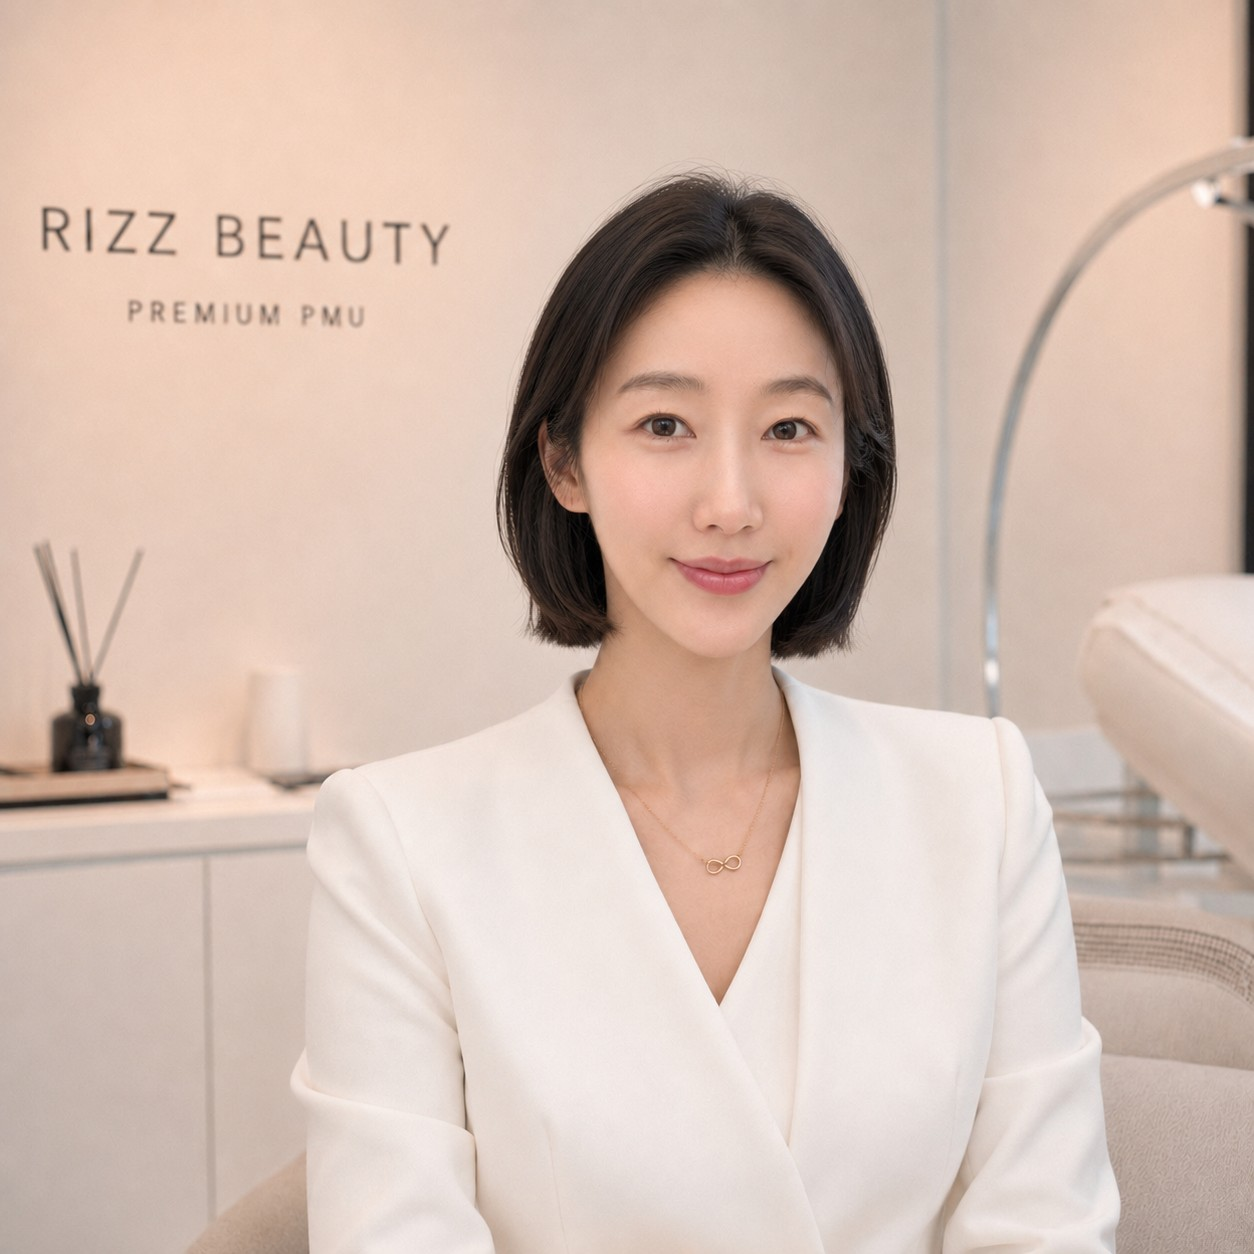
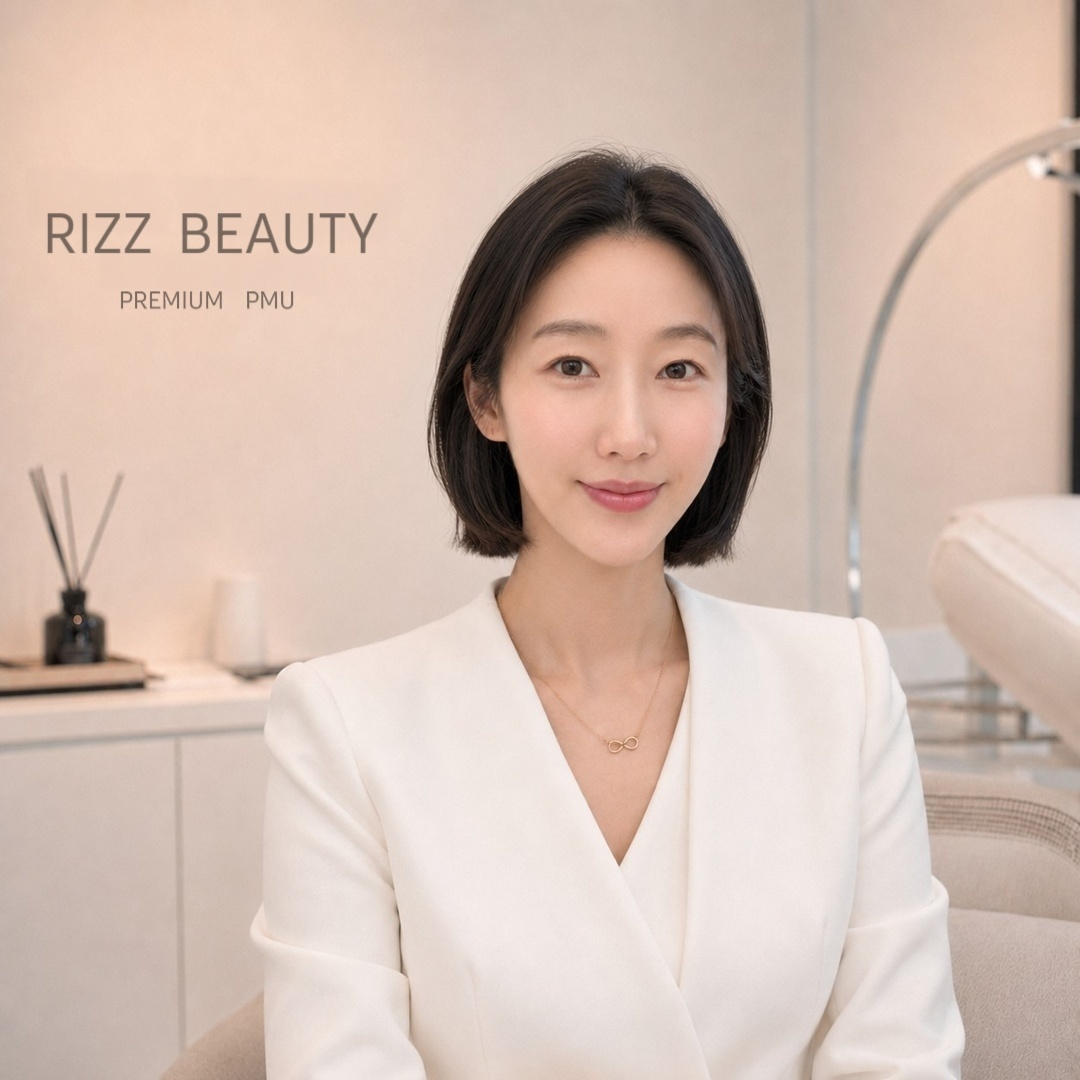
Finalize RIZZ BEAUTY landing page

Changed region(s): [[0.0306, 0.1528, 0.3667, 0.3056]]

diff --git a/src/components/Header.tsx b/src/components/Header.tsx
@@ -16,6 +16,30 @@ const navLinks = [
   { href: "#contact", label: "문의" },
 ];
 
+function NavItems({ className }: { className: string }) {
+  return (
+    <>
+      {navLinks.map((link) =>
+        "external" in link && link.external ? (
+          <a
+            key={link.href}
+            href={link.href}
+            target="_blank"
+            rel="noopener noreferrer"
+            className={className}
+          >
+            {link.label}
+          </a>
+        ) : (
+          <a key={link.href} href={link.href} className={className}>
+            {link.label}
+          </a>
+        ),
+      )}
+    </>
+  );
+}
+
 export default function Header() {
   const [scrolled, setScrolled] = useState(false);
 
@@ -28,50 +52,39 @@ export default function Header() {
 
   return (
     <header
-      className={`fixed inset-x-0 top-0 z-50 transition-[background-color,border-color,backdrop-filter] duration-500 ease-[cubic-bezier(0.16,1,0.3,1)] ${
+      className={`fixed inset-x-0 top-0 z-[60] transition-[background-color,border-color,backdrop-filter] duration-500 ease-[cubic-bezier(0.16,1,0.3,1)] ${
         scrolled
           ? "border-b border-black/[0.06] bg-white/95 backdrop-blur-md"
-          : "border-b border-transparent bg-transparent"
+          : "border-b border-transparent bg-white md:bg-transparent"
       }`}
     >
-      <div className="mx-auto flex max-w-7xl items-center justify-between px-5 py-4 sm:px-6 md:px-10 md:py-5">
-        <a
-          href="#"
-          className="text-[12px] font-semibold tracking-[0.22em] text-[#111111]"
-        >
-          RIZZ BEAUTY
-        </a>
+      <div className="mx-auto max-w-7xl">
+        <div className="flex items-center justify-between px-5 py-4 sm:px-6 md:px-10 md:py-5">
+          <a
+            href="#"
+            className="text-[12px] font-semibold tracking-[0.22em] text-[#111111]"
+          >
+            RIZZ BEAUTY
+          </a>
 
-        <nav className="hidden items-center gap-10 md:flex">
-          {navLinks.map((link) =>
-            "external" in link && link.external ? (
-              <a
-                key={link.href}
-                href={link.href}
-                target="_blank"
-                rel="noopener noreferrer"
-                className="text-[13px] font-medium tracking-[-0.01em] text-[#111111] transition-colors duration-300 hover:text-[#7C6F64]"
-              >
-                {link.label}
-              </a>
-            ) : (
-              <a
-                key={link.href}
-                href={link.href}
-                className="text-[13px] font-medium tracking-[-0.01em] text-[#111111] transition-colors duration-300 hover:text-[#7C6F64]"
-              >
-                {link.label}
-              </a>
-            ),
-          )}
+          <nav className="hidden items-center gap-10 md:flex">
+            <NavItems className="text-[13px] font-medium tracking-[-0.01em] text-[#111111] transition-colors duration-300 hover:text-[#7C6F64]" />
+          </nav>
+
+          <a
+            href="#contact"
+            className="inline-flex h-[40px] items-center justify-center rounded-full bg-black px-6 text-[13px] font-medium tracking-[-0.01em] text-white transition-[filter] duration-300 hover:brightness-110 md:h-[42px] md:px-7"
+          >
+            예약하기
+          </a>
+        </div>
+
+        <nav
+          aria-label="모바일 메뉴"
+          className="flex w-full items-center justify-between gap-1 px-5 pb-3 sm:px-6 md:hidden"
+        >
+          <NavItems className="shrink-0 whitespace-nowrap text-[11px] font-medium tracking-[-0.01em] text-[#111111] transition-colors duration-300 hover:text-[#7C6F64] sm:text-[12px]" />
         </nav>
-
-        <a
-          href="#contact"
-          className="inline-flex h-[40px] items-center justify-center rounded-full bg-black px-6 text-[13px] font-medium tracking-[-0.01em] text-white transition-[filter] duration-300 hover:brightness-110 md:h-[42px] md:px-7"
-        >
-          예약하기
-        </a>
       </div>
     </header>
   );

diff --git a/src/components/Services.tsx b/src/components/Services.tsx
@@ -13,21 +13,24 @@ const services = [
     title: "여자 눈썹",
     price: "350,000원",
     image: "/women-brow.jpg",
-    objectFit: "contain" as const,
+    width: 1536,
+    height: 1536,
   },
   {
     id: "men-eyebrow",
     title: "남자 눈썹",
     price: "400,000원",
     image: "/men-brow.jpg",
-    objectFit: "contain" as const,
+    width: 1490,
+    height: 1536,
   },
   {
     id: "lip",
     title: "입술",
     price: "350,000원",
     image: "/lip-before-after.jpg",
-    objectFit: "contain" as const,
+    width: 1536,
+    height: 1536,
   },
   {
     id: "hairline",
@@ -65,7 +68,7 @@ export default function Services() {
                 className="card-premium overflow-hidden"
               >
                 {"comingSoon" in service && service.comingSoon ? (
-                  <div className="relative flex aspect-[4/3] w-full flex-col items-center justify-center border-b border-black/[0.06] bg-[#f7f5f2] px-6 text-center">
+                  <div className="relative flex aspect-[4/3] w-full flex-col items-center justify-center overflow-hidden border-b border-black/[0.06] bg-[#f7f5f2] px-6 text-center">
                     <p className="text-[13px] font-medium tracking-[0.22em] text-[#111111] md:text-[14px]">
                       COMING SOON
                     </p>
@@ -74,28 +77,15 @@ export default function Services() {
                     </p>
                   </div>
                 ) : (
-                  <div
-                    className={`image-premium relative aspect-[4/3] w-full rounded-none shadow-none ${
-                      "objectFit" in service && service.objectFit === "contain"
-                        ? "bg-beige-light"
-                        : ""
-                    }`}
-                  >
+                  <div className="w-full">
                     <Image
                       src={"image" in service ? service.image : ""}
                       alt={`${service.title} 전후 사진`}
-                      fill
+                      width={"width" in service ? service.width : 1}
+                      height={"height" in service ? service.height : 1}
                       sizes="(max-width: 768px) 100vw, 50vw"
-                      className={
-                        "objectFit" in service &&
-                        service.objectFit === "contain"
-                          ? "object-contain"
-                          : "object-cover"
-                      }
-                      {...("objectFit" in service &&
-                      service.objectFit === "contain"
-                        ? { quality: 95 }
-                        : {})}
+                      quality={95}
+                      className="h-auto w-full object-contain"
                     />
                   </div>
                 )}

diff --git a/src/components/Hero.tsx b/src/components/Hero.tsx
@@ -4,7 +4,7 @@ const HERO_IMAGE = "/hero.jpg";
 
 export default function Hero() {
   return (
-    <section className="flex min-h-[100dvh] items-center bg-white px-5 pb-14 pt-24 sm:px-6 md:px-10 md:pb-20 md:pt-28">
+    <section className="flex min-h-[100dvh] items-center bg-white px-5 pb-14 pt-32 sm:px-6 md:px-10 md:pb-20 md:pt-28">
       <div className="mx-auto grid w-full max-w-7xl items-center gap-7 md:gap-10 lg:grid-cols-[11fr_9fr] lg:gap-12">
         <div>
           <p className="mb-5 text-[11px] font-medium tracking-[0.24em] text-muted md:mb-6">

diff --git a/src/components/WhyRizzBeauty.tsx b/src/components/WhyRizzBeauty.tsx
@@ -3,7 +3,7 @@ import ScrollReveal from "./ScrollReveal";
 const reasons = [
   {
     title: "1:1 맞춤 상담",
-    description: "얼굴형, 피부톤, 라이프스타일까지. 당신만을 위한 디자인을 함께 만듭니다.",
+    description: "얼굴형에 맞는 당신만을 위한 디자인을 함께 만듭니다.",
   },
   {
     title: "섬세한 기술력",

diff --git a/src/app/globals.css b/src/app/globals.css
@@ -34,6 +34,13 @@
 
 html {
   scroll-behavior: smooth;
+  scroll-padding-top: 7.5rem;
+}
+
+@media (min-width: 768px) {
+  html {
+    scroll-padding-top: 6.5rem;
+  }
 }
 
 body {
